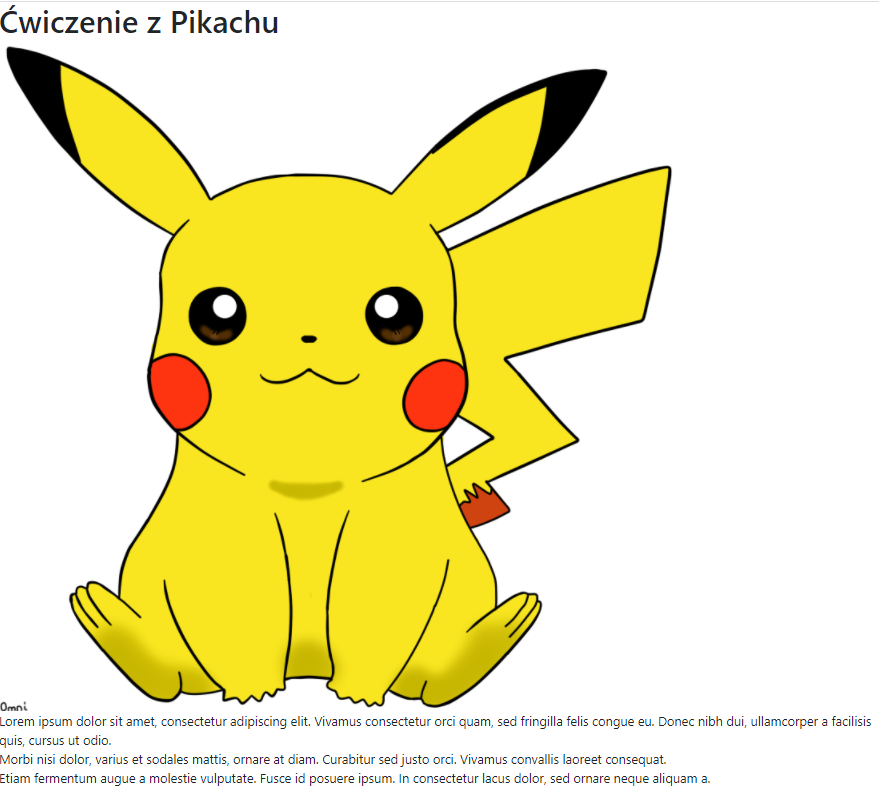
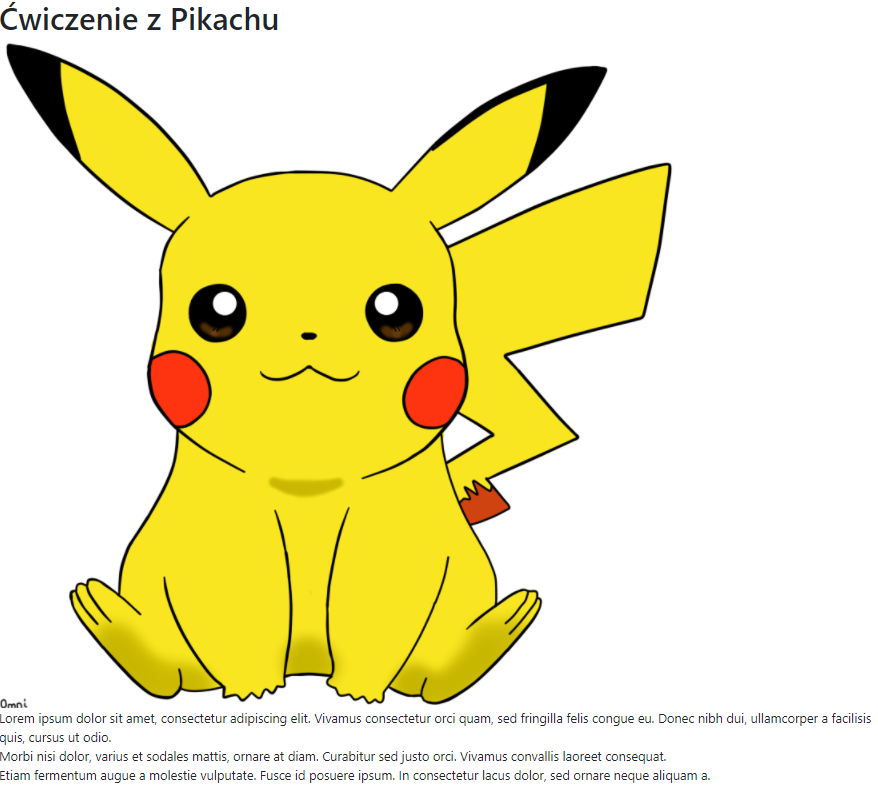
Poprawia pierwszy obrazek Pikachu
- Usuwa ramkę z obrazka Pikachu;
- Dodaje link do źródła obrazka.

diff --git a/pikachu.md b/pikachu.md
@@ -126,3 +126,7 @@ Inne przeglądarki:
   </body>
 </html>
 ```
+
+## Informacje dodatkowe
+
+Źródło obrazka: <https://pixy.org/1088380/>
